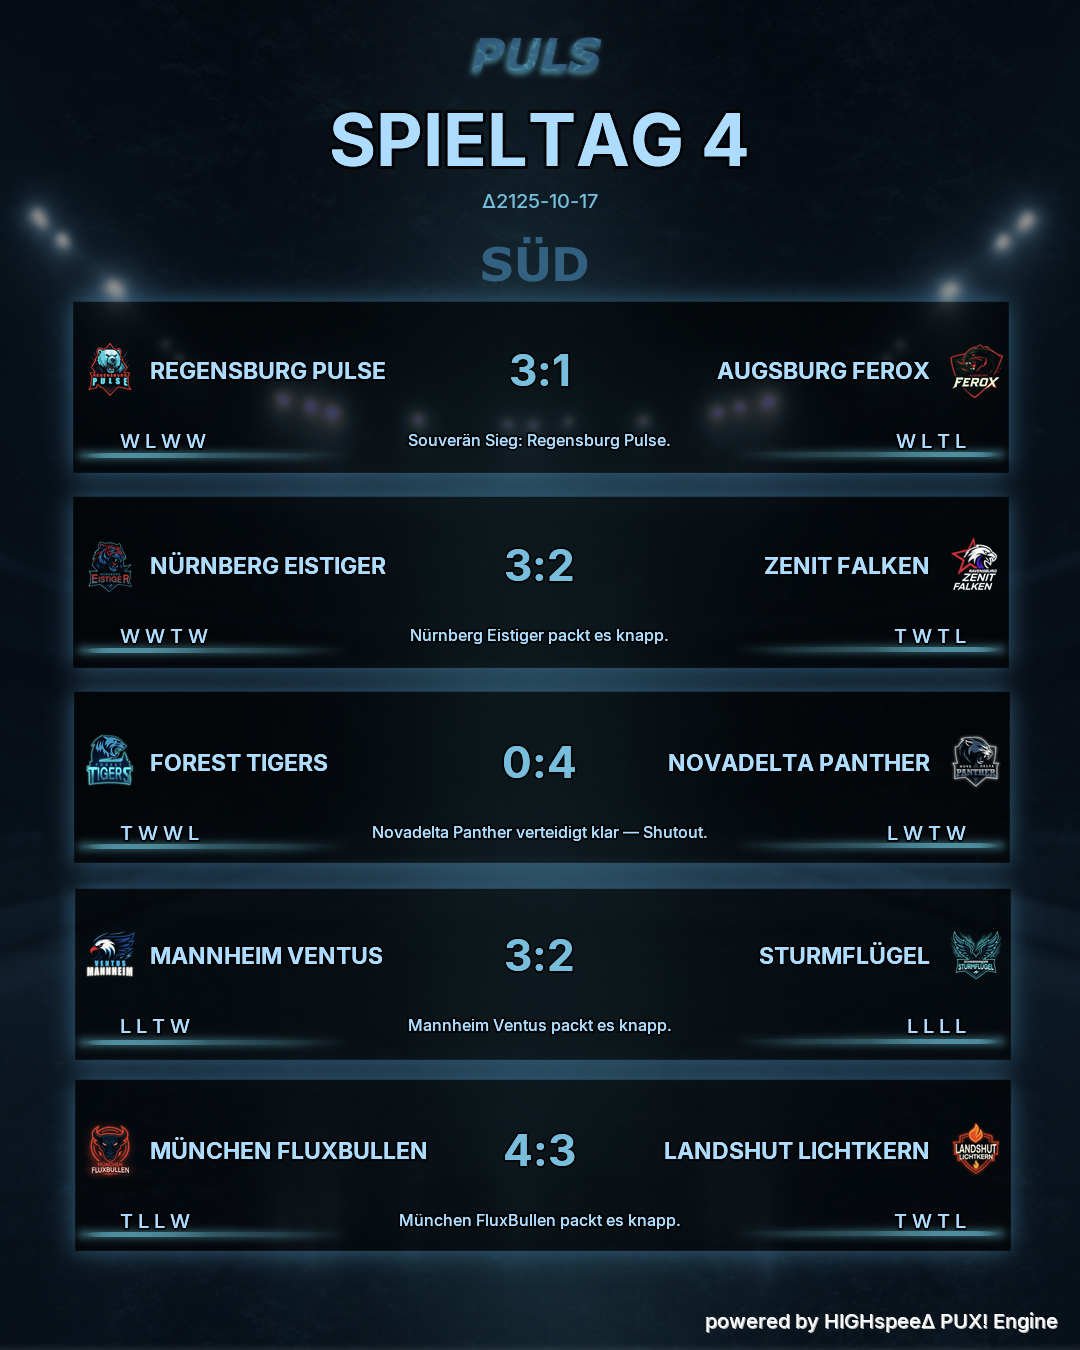
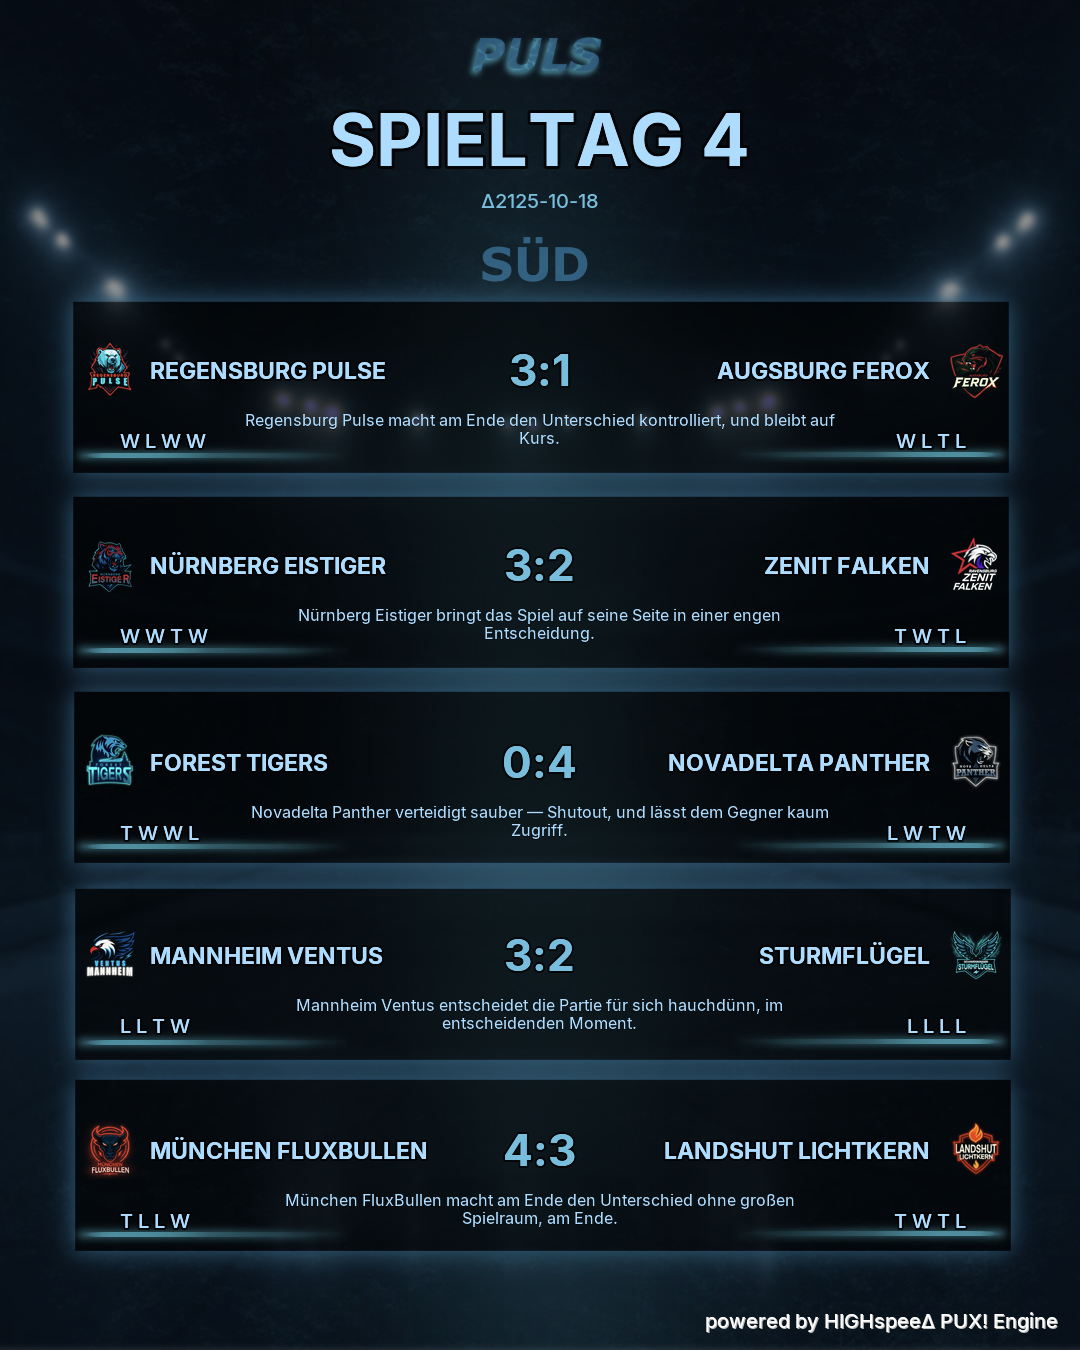
Spieltag 4

diff --git a/src/modules/puls_renderer/results_renderer.py b/src/modules/puls_renderer/results_renderer.py
@@ -549,17 +549,27 @@ def render_matchday_results_overview(
             anchor="rm",  # rechtsbündig
         )
 
-        # Line1 unter dem Score
+        # Line1 unter dem Score mit Wrapping
         if line1:
-            line1_y = y + 70 # anpassen
-            draw_text_fx(
-                img,
-                (layout.center_x, line1_y),
-                line1,
-                blurb_font,
-                fill=layout.color_text,
-                anchor="mm",
-            )
+            line1_y = y + 50  # höher als vorher (war 70)
+            # Wrap text auf max 2 Zeilen - früher umbrechen
+            max_width = layout.center_x * 1.1  # ca. 594px für kürzere Zeilen
+            wrapped = _wrap_to_n_lines(draw, line1, blurb_font, int(max_width), 2)
+            for j, ln in enumerate(wrapped):
+                if ln:
+                    draw_text_fx(
+                        img,
+                        (layout.center_x, line1_y + j * 18),
+                        ln,
+                        blurb_font,
+                        fill=layout.color_text,
+                        anchor="mm",
+                        glow=False,
+                        shadow=True,
+                        shadow_offset=(0, 1),
+                        shadow_alpha=120,
+                        stroke=False,
+                    )
 
 
     if isinstance(layout, ConferenceLayoutV1):
